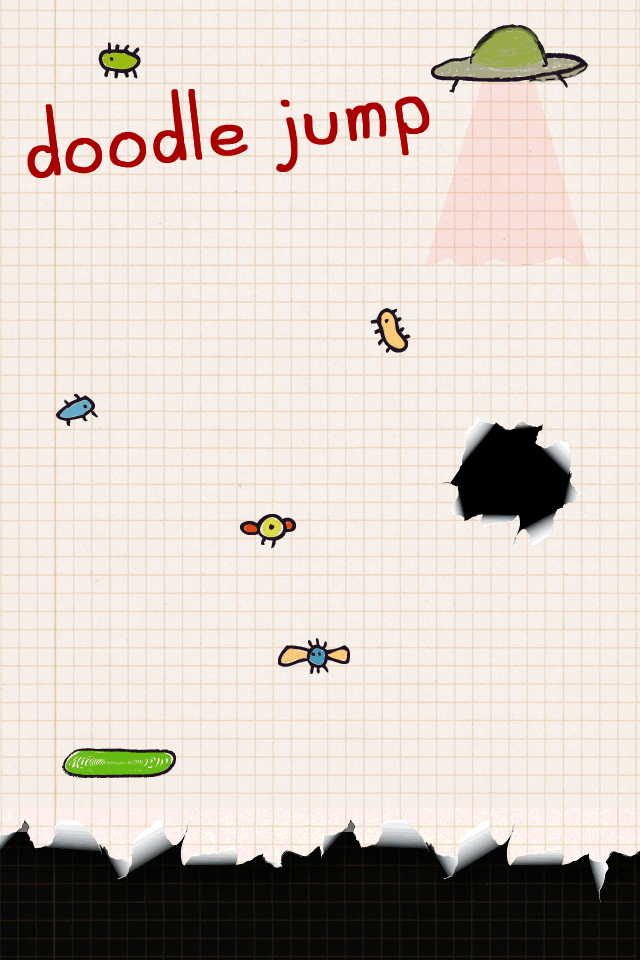
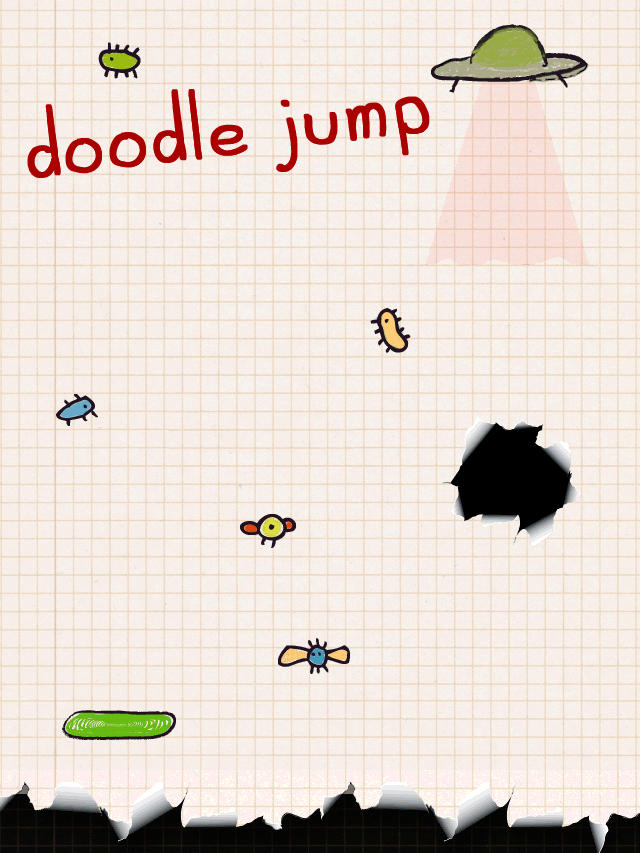
Changed the ratio of the game, and fixed a few glitches

diff --git a/app/styles/main.scss b/app/styles/main.scss
@@ -31,7 +31,7 @@ body {
   background: url('../images/background.png') repeat;
   background-size: 320px 320px;
   height: 60em;
-  width: 55em;
+  width: 45em;
   position: relative;
   min-height: 100%;
   overflow: hidden;
@@ -155,15 +155,15 @@ body {
 
   .doodle {
     position: absolute;
-    left: 7em;
-    top: 47em;
+    left: 8em;
+    top: 50.2em;
     width: 6em;
     height: 5.8em;
     margin-top: -6em;
     margin-left: -2.8em;
     background: url('../images/doodle_right.png') no-repeat;
     background-size: cover;
-    @include animation(menu-doodle-jumping 0.3s ease-in infinite alternate)
+    @include animation(menu-doodle-jumping 0.3s ease-in infinite alternate);
   }
 }
 
@@ -172,6 +172,6 @@ body {
     top: 40em;
   }
   to {
-    top: 47em;
+    top: 50.2em;
   }
 }
